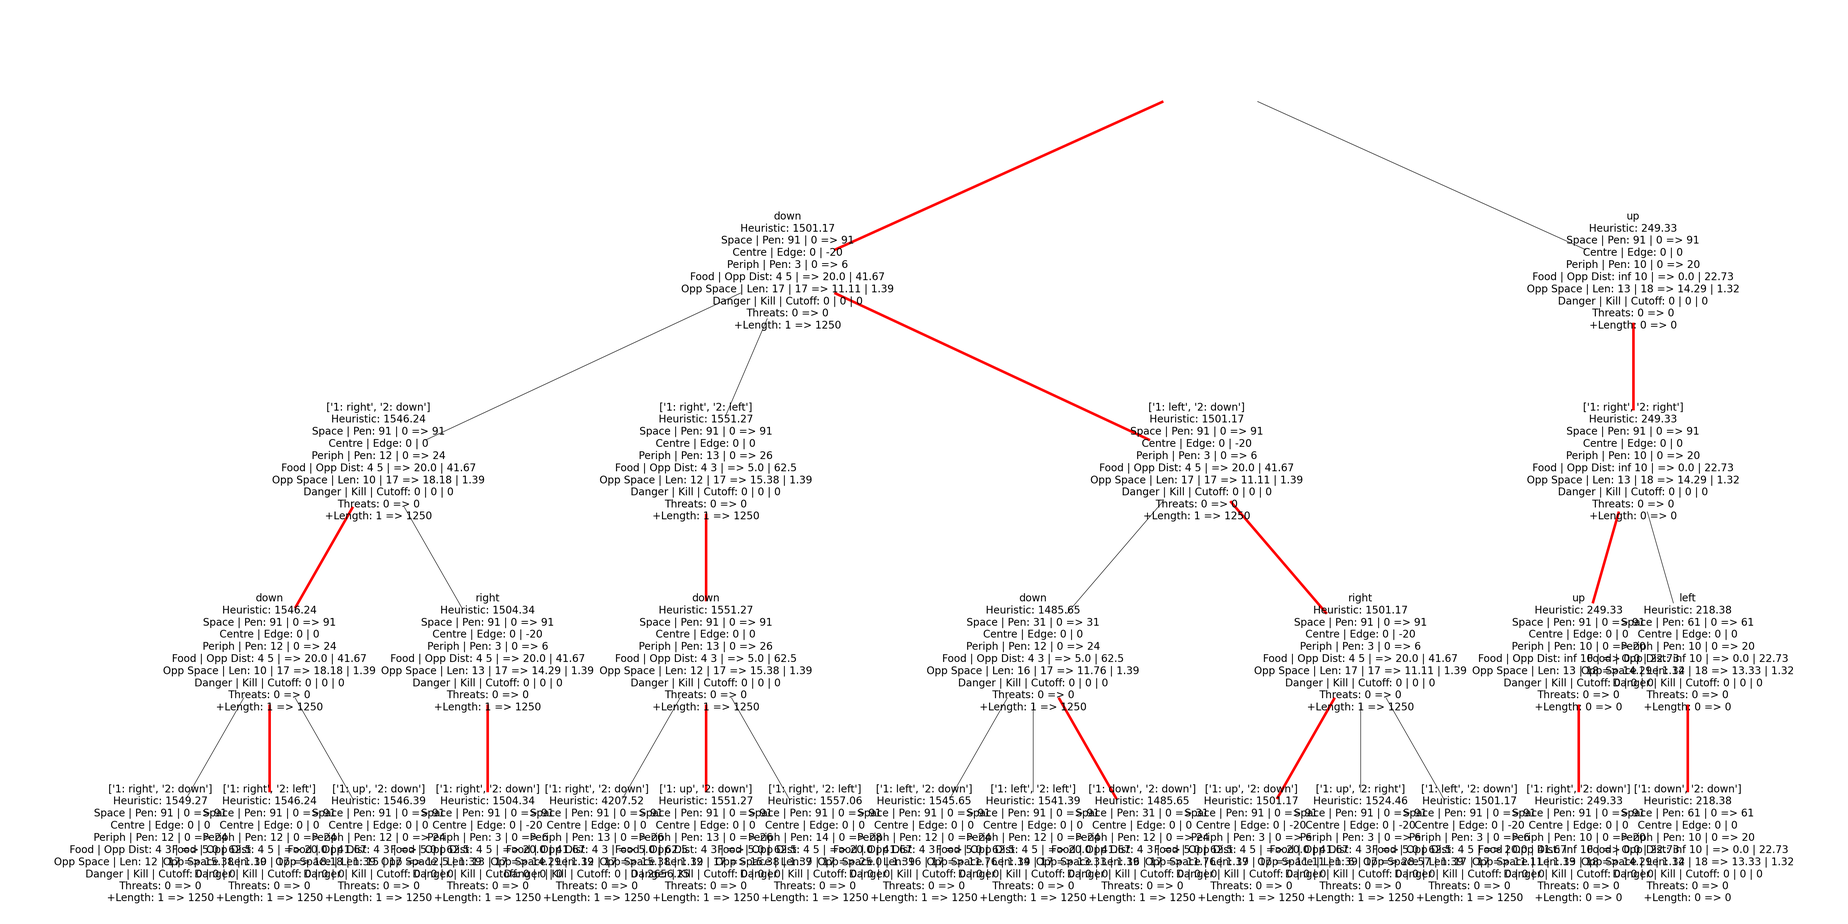
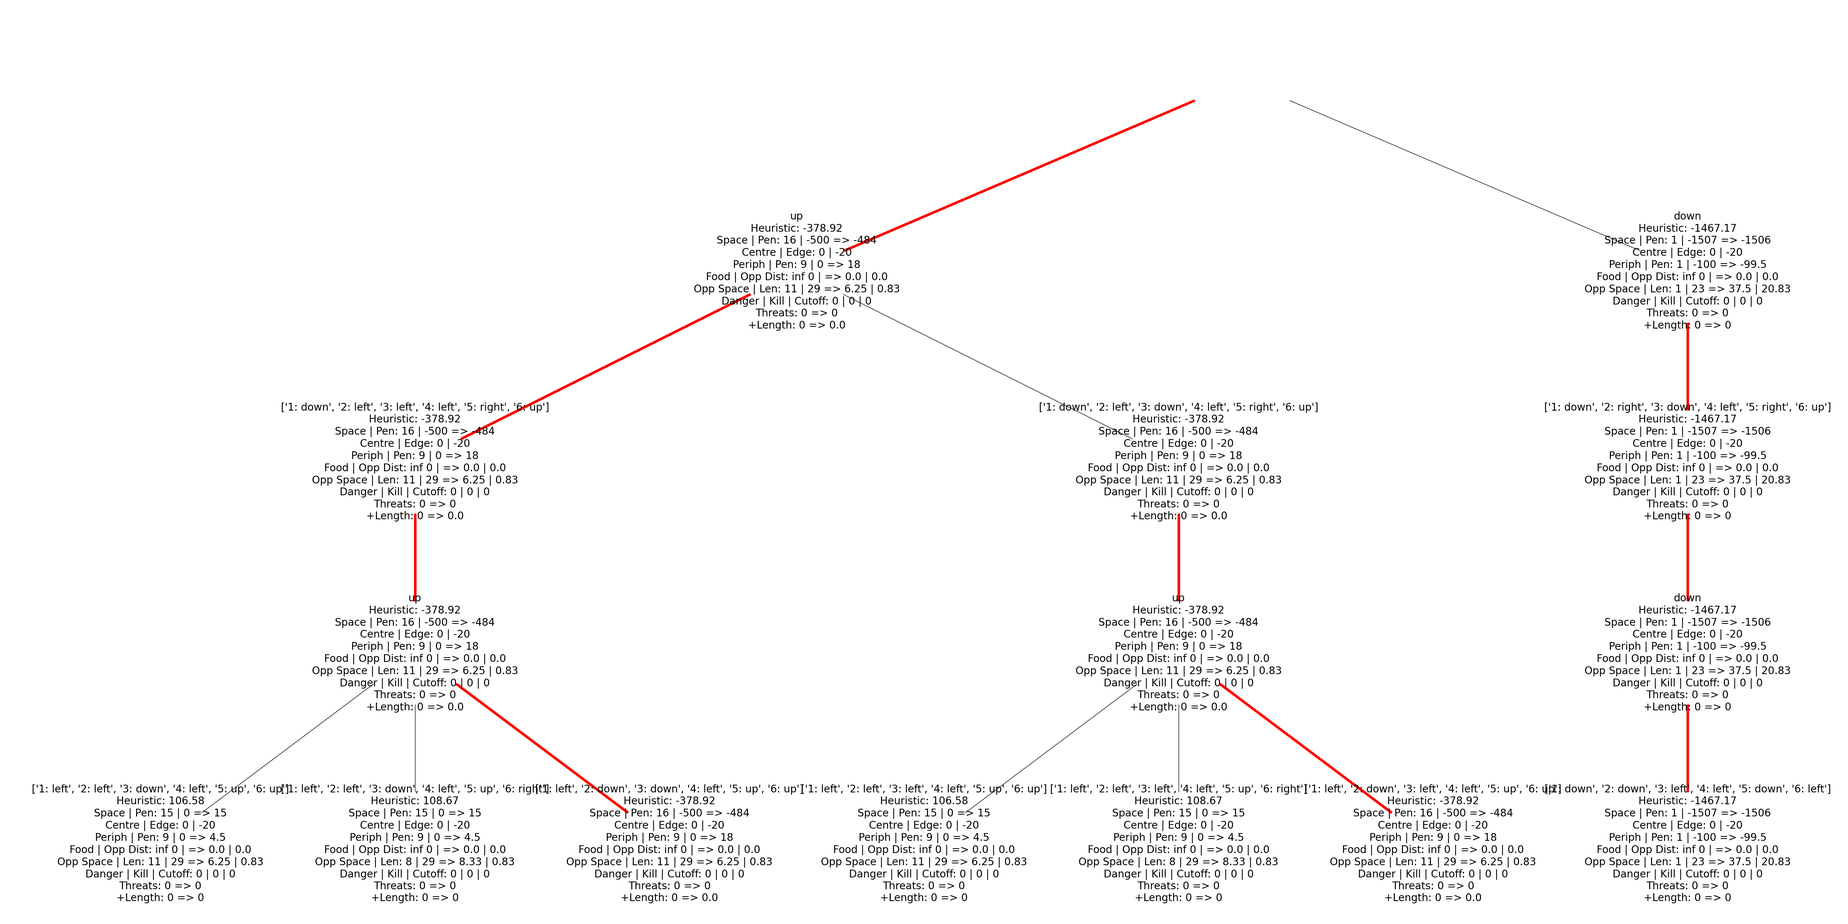
CONVERTED TO OPENCV AND FIXED ALL TESTS WOO

diff --git a/debugging.py b/debugging.py
@@ -71,6 +71,8 @@ game_state = {"game":{"id":"d07d4832-3fbc-4df7-bc1f-84909baa01a2","ruleset":{"na
 game_state = {"game":{"id":"d07d4832-3fbc-4df7-bc1f-84909baa01a2","ruleset":{"name":"standard","version":"cli","settings":{"foodSpawnChance":15,"minimumFood":1,"hazardDamagePerTurn":14,"hazardMap":"","hazardMapAuthor":"","royale":{"shrinkEveryNTurns":25},"squad":{"allowBodyCollisions":False,"sharedElimination":False,"sharedHealth":False,"sharedLength":False}}},"map":"standard","timeout":500,"source":""},"turn":45,"board":{"height":11,"width":11,"snakes":[{"id":"c653eaec-5707-482a-abf2-702d6ba76fd7","name":"JonK","latency":"25","health":59,"body":[{"x":8,"y":9},{"x":8,"y":8},{"x":9,"y":8},{"x":9,"y":9},{"x":9,"y":10}],"head":{"x":8,"y":9},"length":5,"shout":"","squad":"","customizations":{"color":"#B7410E","head":"sleepy","tail":"offroad"}},{"id":"bbf93a5d-e566-49dd-81f6-3bea14ecc43e","name":"JonK3","latency":"29","health":100,"body":[{"x":1,"y":10},{"x":2,"y":10},{"x":3,"y":10},{"x":3,"y":9},{"x":3,"y":8},{"x":3,"y":7},{"x":4,"y":7},{"x":4,"y":6},{"x":4,"y":5},{"x":4,"y":5}],"head":{"x":1,"y":10},"length":10,"shout":"","squad":"","customizations":{"color":"#B7410E","head":"sleepy","tail":"offroad"}},{"id":"86b77068-eaf5-46ff-a934-be44318ca9ba","name":"Nightwing","latency":"256","health":98,"body":[{"x":7,"y":4},{"x":8,"y":4},{"x":9,"y":4},{"x":9,"y":3},{"x":9,"y":2},{"x":8,"y":2},{"x":7,"y":2}],"head":{"x":7,"y":4},"length":7,"shout":"","squad":"","customizations":{"color":"#3333ff","head":"ski","tail":"mystic-moon"}},{"id":"d4972a83-7849-4d3f-be9b-1208252347df","name":"Rick","latency":"113","health":55,"body":[{"x":0,"y":9},{"x":1,"y":9},{"x":1,"y":8}],"head":{"x":0,"y":9},"length":3,"shout":"","squad":"","customizations":{"color":"#00ff00","head":"shark","tail":"coffee"}}],"food":[{"x":3,"y":4}],"hazards":[]},"you":{"id":"a8d162b1-df10-4523-829b-6c751989810c","name":"Rick3","latency":"139","health":77,"body":[{"x":5,"y":10},{"x":6,"y":10},{"x":6,"y":9},{"x":6,"y":8},{"x":6,"y":7}],"head":{"x":5,"y":10},"length":5,"shout":"","squad":"","customizations":{"color":"#00ff00","head":"shark","tail":"coffee"}}}
 game_state={"game":{"id":"3755342f-30a2-4716-a3f5-88da12a44f5c","ruleset":{"name":"standard","version":"cli","settings":{"foodSpawnChance":15,"minimumFood":1,"hazardDamagePerTurn":14,"hazardMap":"","hazardMapAuthor":"","royale":{"shrinkEveryNTurns":25},"squad":{"allowBodyCollisions":False,"sharedElimination":False,"sharedHealth":False,"sharedLength":False}}},"map":"standard","timeout":500,"source":""},"turn":14,"board":{"height":11,"width":11,"snakes":[{"id":"a9f6cdb8-9d43-4826-a7d6-a751f348e37b","name":"JonK2","latency":"24","health":88,"body":[{"x":10,"y":0},{"x":9,"y":0},{"x":8,"y":0},{"x":7,"y":0}],"head":{"x":10,"y":0},"length":4,"shout":"","squad":"","customizations":{"color":"#B7410E","head":"sleepy","tail":"offroad"}},{"id":"9439ea03-46af-4b26-ac9e-1b0f1ade3d68","name":"Rick2","latency":"181","health":90,"body":[{"x":3,"y":3},{"x":4,"y":3},{"x":5,"y":3},{"x":6,"y":3}],"head":{"x":3,"y":3},"length":4,"shout":"","squad":"","customizations":{"color":"#00ff00","head":"shark","tail":"coffee"}},{"id":"e8bde2e2-6634-434c-88a0-9f639dc900b4","name":"Rick3","latency":"141","health":96,"body":[{"x":6,"y":0},{"x":6,"y":1},{"x":6,"y":2},{"x":7,"y":2}],"head":{"x":6,"y":0},"length":4,"shout":"","squad":"","customizations":{"color":"#00ff00","head":"shark","tail":"coffee"}},{"id":"dffa6754-2206-4ca0-9f7e-3a72c13a35eb","name":"JonK","latency":"36","health":99,"body":[{"x":7,"y":9},{"x":7,"y":8},{"x":7,"y":7},{"x":7,"y":6},{"x":8,"y":6}],"head":{"x":7,"y":9},"length":5,"shout":"","squad":"","customizations":{"color":"#B7410E","head":"sleepy","tail":"offroad"}},{"id":"a3e20982-fad5-4b61-9623-c135a06fe1e8","name":"JonK3","latency":"34","health":90,"body":[{"x":5,"y":9},{"x":5,"y":8},{"x":5,"y":7},{"x":5,"y":6},{"x":5,"y":5}],"head":{"x":5,"y":9},"length":5,"shout":"","squad":"","customizations":{"color":"#B7410E","head":"sleepy","tail":"offroad"}},{"id":"ed84fdbd-16a6-4605-9961-a8d75a053518","name":"Nightwing","latency":"134","health":94,"body":[{"x":9,"y":1},{"x":8,"y":1},{"x":8,"y":2},{"x":8,"y":3},{"x":9,"y":3},{"x":9,"y":2}],"head":{"x":9,"y":1},"length":6,"shout":"","squad":"","customizations":{"color":"#3333ff","head":"ski","tail":"mystic-moon"}},{"id":"c1ec4823-e9f3-4971-92fa-5b83e1a18666","name":"Rick","latency":"185","health":92,"body":[{"x":3,"y":1},{"x":4,"y":1},{"x":5,"y":1},{"x":5,"y":2}],"head":{"x":3,"y":1},"length":4,"shout":"","squad":"","customizations":{"color":"#00ff00","head":"shark","tail":"coffee"}}],"food":[{"x":5,"y":10}],"hazards":[]},"you":{"id":"56662b3c-38c2-4cd3-8870-a1a33e717d15","name":"Rick4","latency":"176","health":89,"body":[{"x":7,"y":2},{"x":6,"y":2},{"x":6,"y":1}],"head":{"x":7,"y":2},"length":3,"shout":"","squad":"","customizations":{"color":"#00ff00","head":"shark","tail":"coffee"}}}
 game_state = {"game":{"id":"e1a2089e-1ac7-45c0-9905-022ed1c5c19c","ruleset":{"name":"standard","version":"?","settings":{"foodSpawnChance":15,"minimumFood":1}},"map":"standard","timeout":500,"source":"ladder"},"turn":114,"board":{"width":11,"height":11,"food":[{"x":8,"y":1},{"x":9,"y":4},{"x":10,"y":1}],"hazards":[],"snakes":[{"id":"gs_9vXm8Fjk8YdBDxXwXJXjbX9S","name":"Logic baby","health":66,"body":[{"x":3,"y":1},{"x":3,"y":2},{"x":3,"y":3},{"x":3,"y":4},{"x":3,"y":5},{"x":3,"y":6},{"x":3,"y":7},{"x":3,"y":8},{"x":3,"y":9}],"latency":83,"head":{"x":3,"y":1},"length":9,"shout":"","squad":"","customizations":{"color":"#99004d","head":"smart-caterpillar","tail":"mouse"}},{"id":"gs_QR8QGkrXqSFGhXcyBF7WRYrC","name":"Nightwing","health":70,"body":[{"x":9,"y":5},{"x":10,"y":5},{"x":10,"y":6},{"x":10,"y":7},{"x":10,"y":8},{"x":10,"y":9},{"x":10,"y":10},{"x":9,"y":10},{"x":8,"y":10},{"x":7,"y":10},{"x":7,"y":9},{"x":8,"y":9},{"x":9,"y":9}],"latency":192,"head":{"x":9,"y":5},"length":13,"shout":"","squad":"","customizations":{"color":"#3333ff","head":"ski","tail":"mystic-moon"}},{"id":"gs_7ygJ8GCqmtXkdkd6KGMFjqHR","name":"pingo-snake","health":81,"body":[{"x":8,"y":4},{"x":8,"y":5},{"x":7,"y":5},{"x":6,"y":5},{"x":5,"y":5},{"x":4,"y":5},{"x":4,"y":6},{"x":4,"y":7}],"latency":69,"head":{"x":8,"y":4},"length":8,"shout":"","squad":"","customizations":{"color":"#736ccb","head":"beluga","tail":"curled"}}]},"you":{"id":"gs_QR8QGkrXqSFGhXcyBF7WRYrC","name":"Nightwing","health":70,"body":[{"x":9,"y":5},{"x":10,"y":5},{"x":10,"y":6},{"x":10,"y":7},{"x":10,"y":8},{"x":10,"y":9},{"x":10,"y":10},{"x":9,"y":10},{"x":8,"y":10},{"x":7,"y":10},{"x":7,"y":9},{"x":8,"y":9},{"x":9,"y":9}],"latency":192,"head":{"x":9,"y":5},"length":13,"shout":"","squad":"","customizations":{"color":"#3333ff","head":"ski","tail":"mystic-moon"}}}
+game_state = {"game":{"id":"9988dc10-70ca-49f9-a34d-2f2e91166508","ruleset":{"name":"standard","version":"?","settings":{"foodSpawnChance":15,"minimumFood":1}},"map":"standard","timeout":500,"source":"ladder"},"turn":103,"board":{"width":11,"height":11,"food":[{"x":7,"y":4}],"hazards":[],"snakes":[{"id":"gs_8CHDD6FhwSQQrF4XMkMWRMQb","name":"Darktooth","health":99,"body":[{"x":3,"y":8},{"x":2,"y":8},{"x":2,"y":7},{"x":1,"y":7},{"x":1,"y":6},{"x":0,"y":6},{"x":0,"y":5},{"x":0,"y":4},{"x":0,"y":3},{"x":1,"y":3},{"x":1,"y":4}],"latency":43,"head":{"x":3,"y":8},"length":11,"shout":"Goin ' right","squad":"","customizations":{"color":"#000030","head":"pixel-round","tail":"pixel-round"}},{"id":"gs_8kYybX8wQqbF3Hq6ykFMMxPH","name":"Nightwing","health":100,"body":[{"x":10,"y":1},{"x":9,"y":1},{"x":8,"y":1},{"x":7,"y":1},{"x":7,"y":2},{"x":6,"y":2},{"x":5,"y":2},{"x":4,"y":2},{"x":3,"y":2},{"x":2,"y":2},{"x":2,"y":2}],"latency":197,"head":{"x":10,"y":1},"length":11,"shout":"","squad":"","customizations":{"color":"#3333ff","head":"ski","tail":"mystic-moon"}},{"id":"gs_4VGMWY4RVpdWjYF8Y6SDKSYX","name":"Pately","health":93,"body":[{"x":10,"y":5},{"x":10,"y":6},{"x":10,"y":7},{"x":10,"y":8},{"x":10,"y":9},{"x":10,"y":10},{"x":9,"y":10},{"x":8,"y":10},{"x":8,"y":9},{"x":8,"y":8},{"x":8,"y":7}],"latency":139,"head":{"x":10,"y":5},"length":11,"shout":"","squad":"","customizations":{"color":"#f54242","head":"dragon","tail":"ion"}}]},"you":{"id":"gs_8kYybX8wQqbF3Hq6ykFMMxPH","name":"Nightwing","health":100,"body":[{"x":10,"y":1},{"x":9,"y":1},{"x":8,"y":1},{"x":7,"y":1},{"x":7,"y":2},{"x":6,"y":2},{"x":5,"y":2},{"x":4,"y":2},{"x":3,"y":2},{"x":2,"y":2},{"x":2,"y":2}],"latency":197,"head":{"x":10,"y":1},"length":11,"shout":"","squad":"","customizations":{"color":"#3333ff","head":"ski","tail":"mystic-moon"}}}
+game_state ={"game":{"id":"ebd7e984-bd7c-483f-9ab9-dd1941a2f627","ruleset":{"name":"standard","version":"cli","settings":{"foodSpawnChance":15,"minimumFood":1,"hazardDamagePerTurn":14,"hazardMap":"","hazardMapAuthor":"","royale":{"shrinkEveryNTurns":25},"squad":{"allowBodyCollisions":False,"sharedElimination":False,"sharedHealth":False,"sharedLength":False}}},"map":"standard","timeout":500,"source":""},"turn":23,"board":{"height":11,"width":11,"snakes":[{"id":"59149fd6-c5d1-468d-8858-0121f071ea9f","name":"Rick2","latency":"141","health":81,"body":[{"x":5,"y":10},{"x":4,"y":10},{"x":3,"y":10},{"x":2,"y":10}],"head":{"x":5,"y":10},"length":4,"shout":"","squad":"","customizations":{"color":"#00ff00","head":"caffeine","tail":"coffee"}},{"id":"1ea02430-c413-4093-96c8-8e32503ad9ea","name":"Rick3","latency":"160","health":81,"body":[{"x":6,"y":7},{"x":6,"y":8},{"x":6,"y":9},{"x":5,"y":9}],"head":{"x":6,"y":7},"length":4,"shout":"","squad":"","customizations":{"color":"#00ff00","head":"caffeine","tail":"coffee"}},{"id":"20b643cf-33a0-47d2-8a9b-bf7467009309","name":"JonK","latency":"27","health":94,"body":[{"x":4,"y":5},{"x":4,"y":6},{"x":3,"y":6},{"x":3,"y":7},{"x":2,"y":7}],"head":{"x":4,"y":5},"length":5,"shout":"","squad":"","customizations":{"color":"#B7410E","head":"sleepy","tail":"offroad"}},{"id":"a3ca9d01-053d-4cb3-ba87-2b3f98065f76","name":"JonK3","latency":"32","health":89,"body":[{"x":2,"y":1},{"x":2,"y":0},{"x":3,"y":0},{"x":4,"y":0},{"x":5,"y":0},{"x":6,"y":0}],"head":{"x":2,"y":1},"length":6,"shout":"","squad":"","customizations":{"color":"#B7410E","head":"sleepy","tail":"offroad"}},{"id":"3b5358d1-b7f7-4be1-b81c-35f62a67ff2b","name":"Nightwing","latency":"62","health":100,"body":[{"x":0,"y":5},{"x":1,"y":5},{"x":1,"y":4},{"x":1,"y":3},{"x":1,"y":2},{"x":2,"y":2},{"x":3,"y":2},{"x":3,"y":2}],"head":{"x":0,"y":5},"length":8,"shout":"","squad":"","customizations":{"color":"#3333ff","head":"ski","tail":"mystic-moon"}},{"id":"af15dcfa-39c7-438f-a02b-21192ac7ebff","name":"Rick","latency":"193","health":81,"body":[{"x":8,"y":5},{"x":8,"y":4},{"x":8,"y":3},{"x":8,"y":2}],"head":{"x":8,"y":5},"length":4,"shout":"","squad":"","customizations":{"color":"#00ff00","head":"caffeine","tail":"coffee"}},{"id":"a0ee3c4b-0096-4fb2-bcdc-4b8a7dd7499a","name":"JonK2","latency":"22","health":85,"body":[{"x":1,"y":6},{"x":2,"y":6},{"x":2,"y":5},{"x":2,"y":4},{"x":3,"y":4},{"x":4,"y":4}],"head":{"x":1,"y":6},"length":6,"shout":"","squad":"","customizations":{"color":"#B7410E","head":"sleepy","tail":"offroad"}}],"food":[{"x":10,"y":5}],"hazards":[]},"you":{"id":"3b5358d1-b7f7-4be1-b81c-35f62a67ff2b","name":"Nightwing","latency":"62","health":100,"body":[{"x":0,"y":5},{"x":1,"y":5},{"x":1,"y":4},{"x":1,"y":3},{"x":1,"y":2},{"x":2,"y":2},{"x":3,"y":2},{"x":3,"y":2}],"head":{"x":0,"y":5},"length":8,"shout":"","squad":"","customizations":{"color":"#3333ff","head":"ski","tail":"mystic-moon"}}}
 
 b = Battlesnake(game_state, debugging=True)
 clock_in = time.time_ns()

diff --git a/snake_engine.py b/snake_engine.py
@@ -290,7 +290,7 @@ class Battlesnake:
         # Establish who the snake is and who the possible killers are
         snake = self.all_snakes[snake_id]
         opponents = [opp for opp in self.all_snakes.values() if snake.id != opp.id]
-        possible_moves = self.get_moveset(snake.id, risk_averse=True, turn="basic")
+        possible_moves = self.get_moveset(snake.id, risk_averse=True, turn="static")
         direction = snake.facing_direction()
 
         # A small database that covers different edge kill scenarios
@@ -339,7 +339,7 @@ class Battlesnake:
                         strip = board[getattr(snake.head, ax_dir):, esc_move] if scan_dir == +1 \
                             else board[:(getattr(snake.head, ax_dir) + 1), esc_move][::-1]
                     # Check if we're trapped by our own body
-                    if strip[0] == "0" and snake_id == self.you.id:
+                    if strip[0] == 1 and snake_id == self.you.id:
                         # First check if our body's blocking our path ahead
                         if ax == "x":
                             our_strip = board[getattr(snake.head, ax), getattr(snake.head, ax_dir):] if scan_dir == +1 \
@@ -347,8 +347,8 @@ class Battlesnake:
                         else:
                             our_strip = board[getattr(snake.head, ax_dir):, getattr(snake.head, ax)] if scan_dir == +1 \
                                 else board[:(getattr(snake.head, ax_dir) + 1), getattr(snake.head, ax)][::-1]
-                        if "0" in our_strip:
-                            self_collision_dist = our_strip.tolist().index("0")
+                        if 1 in our_strip:
+                            self_collision_dist = our_strip.tolist().index(1)
                             self_collision_pos = self.you.head.moved_to(direction, distance=self_collision_dist)
                             # If our tail doesn't get out of our way in time, we're doomed
                             if len(self.you.body) - self.you.body.index(self_collision_pos) > self_collision_dist:
@@ -362,9 +362,9 @@ class Battlesnake:
                         #     trapped_by_ourselves = True
                         #     continue
                     # If there's an opponent head there, we might be getting edge-killed
-                    elif "H" in strip:
+                    elif 10 in strip:
                         # Examine the portion preceded by the opponent head (verify there aren't any gaps)
-                        danger_strip = strip[:np.where(strip == "H")[0][0]]
+                        danger_strip = strip[:np.where(strip == 10)[0][0]]
                         # Identify the killer
                         if ax == "x":
                             opp_loc = Pos({"x": esc_move,
@@ -381,13 +381,13 @@ class Battlesnake:
                         # Check if the opponent is going the same direction as us (it's not yet an edge kill if not)
                         elif opp_killer.facing_direction() == direction:
                             # Check if there are gaps between us and the killer, we're dead if there's none
-                            if np.count_nonzero(danger_strip == " ") == 0:
+                            if np.count_nonzero(danger_strip == 0) == 0:
                                 trapped_sides[num] = True
                                 edge_killers[num] = opp_killer
                                 continue
                     else:
                         # Check to see if there's free space for us to escape to or if we're trapped
-                        if self.trapped and np.count_nonzero(strip == " ") == 0:
+                        if self.trapped and np.count_nonzero(strip == 0) == 0:
                             trapped_sides[num] = True
                             continue
 
@@ -416,7 +416,7 @@ class Battlesnake:
                                 else board[:(getattr(snake.head, ax_dir) + 1), esc_move_x2][::-1]
                     # If there's a longer snake in either of those two locations, we might be getting edge-killed
                     opp_killers = [opp for opp in opponents if (  # TODO cleanup
-                            opp.length > snake.length or (opp.length == snake.length and "f" in threat_strip)) and (
+                            opp.length > snake.length or (opp.length == snake.length and 100 in threat_strip)) and (
                             (opp.head == threat_behind and direction in self.get_moveset(opp.id)) or
                             opp.head == threat_two_over)]
                     if len(opp_killers) > 0:
@@ -702,40 +702,40 @@ class Battlesnake:
                 cutoff_bonus += (cutoff_bonus / (1 + cutting_off))
 
 
-        # # Can we get cut off?
-        # opps_nearby = [opp for opp in self.opponents.values() if self.you.head.manhattan_dist(opp.head) <= 4]
-        # if 0 < len(opps_nearby) <= 2 or len(self.opponents) == 1:
-        #     # if cutting_off is not None:
-        #     #     us_cutoff = cutting_off
-        #     # else:
-        #     #     us_cutoff = self.board.flood_fill(closest_opp.id, opp_cutoff=self.you.id)
-        #     # opp_cutoff = self.board.flood_fill(self.you.id, opp_cutoff=closest_opp.id)
-        #
-        #     if len(self.opponents) == 1:
-        #         if cutting_off is not None:
-        #             us_cutoff = cutting_off
-        #         else:
-        #             us_cutoff = self.board.flood_fill(closest_opp.id, opp_cutoff=self.you.id)
-        #         opp_cutoff = self.board.flood_fill(self.you.id, opp_cutoff=closest_opp.id)
-        #     else:
-        #         us_cutoff = self.board.flood_fill(opps_nearby[0].id, opp_cutoff=self.you.id)
-        #         opp_cutoff = self.board.flood_fill(self.you.id, opp_cutoff=opps_nearby[0].id)
-        #     if self.you.length < closest_opp.length:
-        #         if opp_cutoff < 15:
-        #             if space_penalty == 0:
-        #                 space_penalty = -500
-        #     else:
-        #         if opp_cutoff <= 15 and us_cutoff > opp_cutoff:  # Penalise if we're in a worse position
-        #             if space_penalty == 0:
-        #                 space_penalty = -500
-        #                 if aggression_weight > 500:
-        #                     aggression_weight /= 10
-        #                 if incr_length_weight > 1000:
-        #                     incr_length_weight /= 10
-        #                 if kill_bonus > 0 and opp_cutoff <= 5:  # If we kill but get killed anyways
-        #                     kill_bonus = 0
-        #             if cutoff_bonus > 0:  # Reduce the cutoff if we're the ones getting cut off lol
-        #                 cutoff_bonus = 0
+        # Can we get cut off?
+        opps_nearby = [opp for opp in self.opponents.values() if self.you.head.manhattan_dist(opp.head) <= 4]
+        if 0 < len(opps_nearby) <= 2 or len(self.opponents) == 1:
+            # if cutting_off is not None:
+            #     us_cutoff = cutting_off
+            # else:
+            #     us_cutoff = self.board.flood_fill(closest_opp.id, opp_cutoff=self.you.id)
+            # opp_cutoff = self.board.flood_fill(self.you.id, opp_cutoff=closest_opp.id)
+
+            if len(self.opponents) == 1:
+                if cutting_off is not None:
+                    us_cutoff = cutting_off
+                else:
+                    us_cutoff = self.board.flood_fill(closest_opp.id, opp_cutoff=self.you.id)
+                opp_cutoff = self.board.flood_fill(self.you.id, opp_cutoff=closest_opp.id)
+            else:
+                us_cutoff = self.board.flood_fill(opps_nearby[0].id, opp_cutoff=self.you.id)
+                opp_cutoff = self.board.flood_fill(self.you.id, opp_cutoff=opps_nearby[0].id)
+            if self.you.length < closest_opp.length:
+                if opp_cutoff < 15:
+                    if space_penalty == 0:
+                        space_penalty = -500
+            else:
+                if opp_cutoff <= 15 and us_cutoff > opp_cutoff:  # Penalise if we're in a worse position
+                    if space_penalty == 0:
+                        space_penalty = -500
+                        if aggression_weight > 500:
+                            aggression_weight /= 10
+                        if incr_length_weight > 1000:
+                            incr_length_weight /= 10
+                        if kill_bonus > 0 and opp_cutoff <= 5:  # If we kill but get killed anyways
+                            kill_bonus = 0
+                    if cutoff_bonus > 0:  # Reduce the cutoff if we're the ones getting cut off lol
+                        cutoff_bonus = 0
 
         # if space_penalty < 0:
         #     length_weight = 100

diff --git a/testing_heuristic.py b/testing_heuristic.py
@@ -2,7 +2,7 @@ from snake_engine import Battlesnake
 import numpy as np
 
 
-game_state = {'turn': 45, 'board': {'height': 11, 'width': 11, 'food': [{'x': 3, 'y': 4}], 'hazards': [], 'snakes': [{'id': '86b77068-eaf5-46ff-a934-be44318ca9ba', 'name': 'Nightwing', 'health': 96, 'body': [{'x': 5, 'y': 4}, {'x': 6, 'y': 4}, {'x': 7, 'y': 4}, {'x': 8, 'y': 4}, {'x': 9, 'y': 4}, {'x': 9, 'y': 3}, {'x': 9, 'y': 2}], 'head': {'x': 5, 'y': 4}, 'length': 7, 'food_eaten': None}, {'id': 'c653eaec-5707-482a-abf2-702d6ba76fd7', 'name': 'JonK', 'health': 57, 'body': [{'x': 7, 'y': 8}, {'x': 7, 'y': 9}, {'x': 8, 'y': 9}, {'x': 8, 'y': 8}, {'x': 9, 'y': 8}], 'head': {'x': 7, 'y': 8}, 'length': 5, 'food_eaten': None}, {'id': 'd4972a83-7849-4d3f-be9b-1208252347df', 'name': 'Rick', 'health': 53, 'body': [{'x': 0, 'y': 7}, {'x': 0, 'y': 8}, {'x': 0, 'y': 9}], 'head': {'x': 0, 'y': 7}, 'length': 3, 'food_eaten': None}]}, 'you': {'id': '86b77068-eaf5-46ff-a934-be44318ca9ba', 'name': 'Nightwing', 'health': 96, 'body': [{'x': 5, 'y': 4}, {'x': 6, 'y': 4}, {'x': 7, 'y': 4}, {'x': 8, 'y': 4}, {'x': 9, 'y': 4}, {'x': 9, 'y': 3}, {'x': 9, 'y': 2}], 'head': {'x': 5, 'y': 4}, 'length': 7, 'food_eaten': None}}
+game_state = {'turn': 23, 'board': {'height': 11, 'width': 11, 'food': [{'x': 10, 'y': 5}], 'hazards': [], 'snakes': [{'id': '3b5358d1-b7f7-4be1-b81c-35f62a67ff2b', 'name': 'Nightwing', 'health': 98, 'body': [{'x': 0, 'y': 7}, {'x': 0, 'y': 6}, {'x': 0, 'y': 5}, {'x': 1, 'y': 5}, {'x': 1, 'y': 4}, {'x': 1, 'y': 3}, {'x': 1, 'y': 2}, {'x': 2, 'y': 2}], 'head': {'x': 0, 'y': 7}, 'length': 8, 'food_eaten': None}, {'id': '59149fd6-c5d1-468d-8858-0121f071ea9f', 'name': 'Rick2', 'health': 79, 'body': [{'x': 4, 'y': 9}, {'x': 5, 'y': 9}, {'x': 5, 'y': 10}, {'x': 4, 'y': 10}], 'head': {'x': 4, 'y': 9}, 'length': 4, 'food_eaten': None}, {'id': '1ea02430-c413-4093-96c8-8e32503ad9ea', 'name': 'Rick3', 'health': 79, 'body': [{'x': 5, 'y': 6}, {'x': 5, 'y': 7}, {'x': 6, 'y': 7}, {'x': 6, 'y': 8}], 'head': {'x': 5, 'y': 6}, 'length': 4, 'food_eaten': None}, {'id': '20b643cf-33a0-47d2-8a9b-bf7467009309', 'name': 'JonK', 'health': 92, 'body': [{'x': 3, 'y': 4}, {'x': 3, 'y': 5}, {'x': 4, 'y': 5}, {'x': 4, 'y': 6}, {'x': 3, 'y': 6}], 'head': {'x': 3, 'y': 4}, 'length': 5, 'food_eaten': None}, {'id': 'a3ca9d01-053d-4cb3-ba87-2b3f98065f76', 'name': 'JonK3', 'health': 87, 'body': [{'x': 0, 'y': 1}, {'x': 1, 'y': 1}, {'x': 2, 'y': 1}, {'x': 2, 'y': 0}, {'x': 3, 'y': 0}, {'x': 4, 'y': 0}], 'head': {'x': 0, 'y': 1}, 'length': 6, 'food_eaten': None}, {'id': 'af15dcfa-39c7-438f-a02b-21192ac7ebff', 'name': 'Rick', 'health': 79, 'body': [{'x': 9, 'y': 6}, {'x': 9, 'y': 5}, {'x': 8, 'y': 5}, {'x': 8, 'y': 4}], 'head': {'x': 9, 'y': 6}, 'length': 4, 'food_eaten': None}, {'id': 'a0ee3c4b-0096-4fb2-bcdc-4b8a7dd7499a', 'name': 'JonK2', 'health': 83, 'body': [{'x': 1, 'y': 8}, {'x': 1, 'y': 7}, {'x': 1, 'y': 6}, {'x': 2, 'y': 6}, {'x': 2, 'y': 5}, {'x': 2, 'y': 4}], 'head': {'x': 1, 'y': 8}, 'length': 6, 'food_eaten': None}]}, 'you': {'id': '3b5358d1-b7f7-4be1-b81c-35f62a67ff2b', 'name': 'Nightwing', 'health': 98, 'body': [{'x': 0, 'y': 7}, {'x': 0, 'y': 6}, {'x': 0, 'y': 5}, {'x': 1, 'y': 5}, {'x': 1, 'y': 4}, {'x': 1, 'y': 3}, {'x': 1, 'y': 2}, {'x': 2, 'y': 2}], 'head': {'x': 0, 'y': 7}, 'length': 8, 'food_eaten': None}}
 b = Battlesnake(game_state, debugging=True)
 b.board.update_board()
 h = b.heuristic(tree_depth=1)
